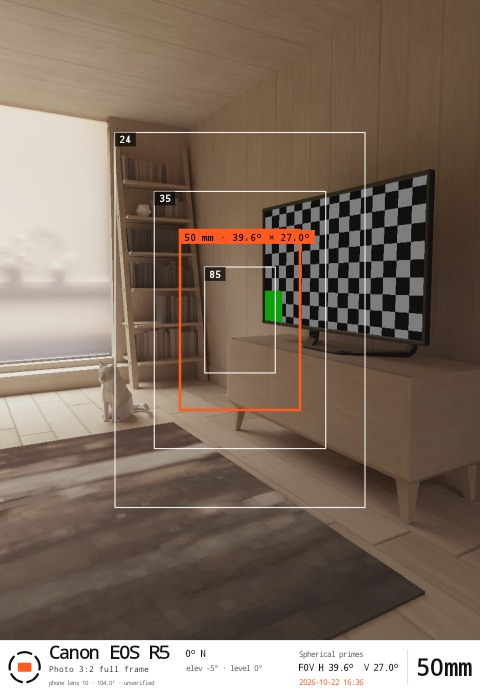
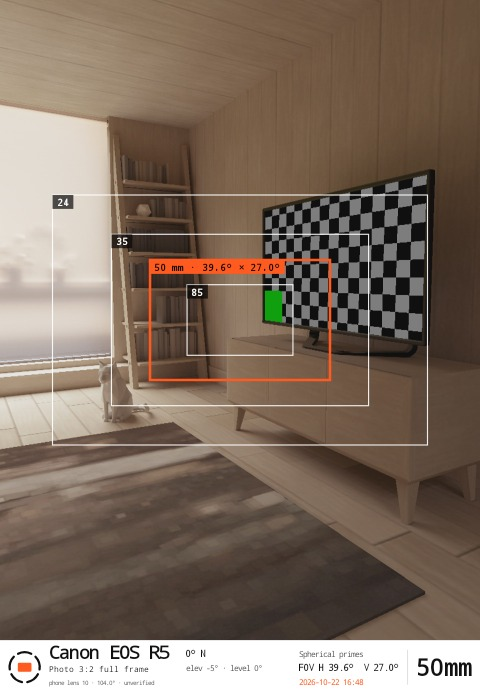
Doble toque para ver el encuadre recortado y recuadros siempre horizontales al girar el teléfono (v0.2.5-beta)

diff --git a/app/src/main/java/app/mado/ui/FovScreen.kt b/app/src/main/java/app/mado/ui/FovScreen.kt
@@ -59,6 +59,7 @@ import androidx.compose.runtime.setValue
 import androidx.compose.ui.Alignment
 import androidx.compose.ui.Modifier
 import androidx.compose.ui.draw.clip
+import androidx.compose.ui.layout.layout
 import androidx.compose.ui.geometry.CornerRadius
 import androidx.compose.ui.geometry.Offset
 import androidx.compose.ui.geometry.Size
@@ -221,28 +222,41 @@ fun FovScreen(
     }
     val phoneDeg = profileDeg ?: theory
     val target = framing?.target()
-    val frame = target?.let { Framing.frame(it, Math.toRadians(phoneDeg), size.width.toDouble() / size.height) }
+    // En fracciones del ancho y del alto de la pantalla; horizontal en el mundo también con el teléfono en vertical.
+    val frame = target?.let { Framing.toScreen(Framing.frame(it, Math.toRadians(phoneDeg), size.width.toDouble() / size.height), size.width.toDouble() / size.height, portrait = !landscape) }
     // Un recuadro por focal del kit (la actual resaltada). El preview se achica según el más ancho (padding).
     val frameDraws = framing?.options().orEmpty().map {
         val hDeg = Math.toDegrees(it.target.hFovRad)
         val vDeg = Math.toDegrees(2.0 * kotlin.math.atan(kotlin.math.tan(it.target.hFovRad / 2.0) / it.target.aspect))
         // La actual lleva su medida en la etiqueta: focal y campo horizontal × vertical.
         val detail = if (it.current) String.format(Locale.ROOT, "%s mm · %.1f° × %.1f°", it.label, hDeg, vDeg) else it.label
-        FrameDraw(it.label, Framing.frame(it.target, Math.toRadians(phoneDeg), size.width.toDouble() / size.height), it.current, detail)
+        // Siempre horizontales en el mundo: con el teléfono en vertical se reexpresan en los ejes de la pantalla.
+        val phoneAspect = size.width.toDouble() / size.height
+        FrameDraw(it.label, Framing.toScreen(Framing.frame(it.target, Math.toRadians(phoneDeg), phoneAspect), phoneAspect, portrait = !landscape), it.current, detail)
     }
     val imageScale = frameDraws.maxOfOrNull { maxOf(it.frame.widthFrac, it.frame.heightFrac) }?.let { (1.0 / maxOf(1.0, it)).toFloat() } ?: 1f
+
+    // Vista recortada (doble toque en el visor): el encuadre actual llena el visor y se ve «como saldría».
+    var cropView by rememberSaveable { mutableStateOf(false) }
+    val cropOn = framing != null && cropView && frame != null
+    val imgAspect = if (landscape) size.width.toFloat() / size.height else size.height.toFloat() / size.width
+    // Fracción del ancho y del alto de la pantalla que ocupa el encuadre actual.
+    val cropFw = frameDraws.firstOrNull { it.current }?.frame?.widthFrac?.toFloat() ?: 1f
+    val cropFh = frameDraws.firstOrNull { it.current }?.frame?.heightFrac?.toFloat() ?: 1f
+    val cropDraws = if (cropOn) frameDraws.filter { it.current }.map { it.copy(frame = Framing.Frame(1.0, 1.0)) } else frameDraws
 
     val preview: @Composable (Modifier) -> Unit = { mod ->
         Preview(
             modifier = mod,
-            aspect = if (landscape) size.width.toFloat() / size.height else size.height.toFloat() / size.width,
+            aspect = if (cropOn) imgAspect * cropFw / cropFh else imgAspect,
             running = running,
             onHolder = { holder = it; if (it != null) surfaceGen++ },
             onDestroyed = { camera.stopAndWait() },
-            imageScale = imageScale,
+            surfaceFracX = if (cropOn) 1f / cropFw else imageScale,
+            surfaceFracY = if (cropOn) 1f / cropFh else imageScale,
             corner = if (framing != null) 0.dp else 14.dp,
             overlay = {
-                if (framing != null) FrameOverlay(frameDraws, imageScale, landscape)
+                if (framing != null) FrameOverlay(cropDraws, if (cropOn) 1f else imageScale)
                 else Overlay(theory, distCm.toDoubleOrNull(), landscape)
             },
         )
@@ -379,7 +393,7 @@ fun FovScreen(
             ViewerLayout(
                 framing = framing, landscape = landscape, preview = preview, controls = controls,
                 running = running, working = shot is ShotUi.Working, hasPermission = hasPermission,
-                onToggle = onToggle, onShot = takeShot, onMenu = onMenu,
+                onToggle = onToggle, onShot = takeShot, onMenu = onMenu, onDoubleTap = { cropView = !cropView },
             )
         } else if (landscape) {
             // El preview ocupa el alto; los controles van en un panel desplazable a la derecha.
@@ -408,7 +422,7 @@ private fun ViewerLayout(
     framing: FramingState, landscape: Boolean,
     preview: @Composable (Modifier) -> Unit, controls: @Composable () -> Unit,
     running: Boolean, working: Boolean, hasPermission: Boolean,
-    onToggle: () -> Unit, onShot: () -> Unit, onMenu: () -> Unit,
+    onToggle: () -> Unit, onShot: () -> Unit, onMenu: () -> Unit, onDoubleTap: () -> Unit,
 ) {
     val p = LocalPalette.current
     var optionsOpen by rememberSaveable { mutableStateOf(false) }
@@ -418,9 +432,11 @@ private fun ViewerLayout(
         val screenW = maxWidth
         preview(Modifier.align(Alignment.Center).then(if (landscape) Modifier.fillMaxHeight() else Modifier.fillMaxWidth()))
 
-        // Tocar la imagen mientras el panel está abierto lo cierra.
-        if (optionsOpen) Box(
-            Modifier.fillMaxSize().pointerInput(Unit) { detectTapGestures { optionsOpen = false } },
+        // Un toque sobre la imagen cierra el panel; doble toque alterna la vista recortada al encuadre.
+        Box(
+            Modifier.fillMaxSize().pointerInput(Unit) {
+                detectTapGestures(onTap = { optionsOpen = false }, onDoubleTap = { onDoubleTap() })
+            },
         )
 
         // Cámara y modo (arriba a la izquierda): tocarla abre la configuración.
@@ -446,6 +462,7 @@ private fun ViewerLayout(
                         modifier = Modifier.clickable { optionsOpen = false }.padding(horizontal = 8.dp, vertical = 4.dp),
                     )
                 }
+                Text(stringResource(R.string.frm_double_tap), style = mono(10, p.text.copy(alpha = 0.6f)), modifier = Modifier.padding(bottom = 8.dp))
                 controls()
             }
         }
@@ -493,7 +510,8 @@ private fun Preview(
     running: Boolean,
     onHolder: (SurfaceHolder?) -> Unit,
     onDestroyed: () -> Unit,
-    imageScale: Float = 1f,
+    surfaceFracX: Float = 1f,
+    surfaceFracY: Float = 1f,
     corner: androidx.compose.ui.unit.Dp = 14.dp,
     overlay: @Composable () -> Unit,
 ) {
@@ -509,7 +527,13 @@ private fun Preview(
                     })
                 }
             },
-            modifier = Modifier.fillMaxSize(imageScale).align(Alignment.Center),
+            // La superficie se dimensiona como fracción del visor (puede ser mayor: el visor la recorta).
+            modifier = Modifier.align(Alignment.Center).layout { m, c ->
+                val w = (c.maxWidth * surfaceFracX).roundToInt().coerceAtLeast(1)
+                val h = (c.maxHeight * surfaceFracY).roundToInt().coerceAtLeast(1)
+                val pl = m.measure(androidx.compose.ui.unit.Constraints.fixed(w, h))
+                layout(c.maxWidth, c.maxHeight) { pl.place((c.maxWidth - w) / 2, (c.maxHeight - h) / 2) }
+            },
         )
         overlay()
         if (!running) Box(Modifier.fillMaxSize().background(p.screen.copy(alpha = 0.85f)), contentAlignment = Alignment.Center) {

diff --git a/app/src/main/java/app/mado/data/PhotoAnnotator.kt b/app/src/main/java/app/mado/data/PhotoAnnotator.kt
@@ -50,7 +50,6 @@ object PhotoAnnotator {
         val c = Canvas(out)
         c.drawColor(PAPER)
 
-        val landscape = w >= h                               // los recuadros se calculan con el lado largo en horizontal
         val widest = frames.maxOfOrNull { maxOf(it.frame.widthFrac, it.frame.heightFrac) } ?: 1.0
         val scale = (1.0 / maxOf(1.0, widest)).toFloat()
         val iw = w * scale; val ih = h * scale
@@ -62,8 +61,8 @@ object PhotoAnnotator {
         val tagText = Paint(Paint.ANTI_ALIAS_FLAG).apply { typeface = Typeface.create(Typeface.MONOSPACE, Typeface.BOLD); textSize = unit * 0.8f }
         frames.sortedBy { it.current }.forEach { af ->
             val fr = af.frame
-            val fw = (if (landscape) fr.widthFrac else fr.heightFrac).toFloat() * iw
-            val fh = (if (landscape) fr.heightFrac else fr.widthFrac).toFloat() * ih
+            val fw = fr.widthFrac.toFloat() * iw                 // fracciones en los ejes de la foto ya girada
+            val fh = fr.heightFrac.toFloat() * ih
             val l = w / 2f - fw / 2f; val t = h / 2f - fh / 2f
             val line = Paint().apply {
                 color = if (af.current) ORANGE else Color.argb(230, 255, 255, 255)
@@ -89,9 +88,8 @@ object PhotoAnnotator {
         val rotated90 = rotationDeg % 180 != 0
         val W = if (rotated90) size.outHeight else size.outWidth      // medidas de la foto ya girada
         val H = if (rotated90) size.outWidth else size.outHeight
-        val landscape = W >= H
-        val fwFrac = (if (landscape) cur.widthFrac else cur.heightFrac).toFloat()
-        val fhFrac = (if (landscape) cur.heightFrac else cur.widthFrac).toFloat()
+        val fwFrac = cur.widthFrac.toFloat()                      // fracciones en los ejes de la foto ya girada
+        val fhFrac = cur.heightFrac.toFloat()
 
         val body: Bitmap
         if (fwFrac <= 1f && fhFrac <= 1f) {

diff --git a/app/src/main/java/app/mado/ui/FramingUi.kt b/app/src/main/java/app/mado/ui/FramingUi.kt
@@ -58,7 +58,7 @@ internal data class FrameDraw(val label: String, val frame: Framing.Frame, val c
  * y las demás en blanco. Si la focal más ancha supera al teléfono (padding), el preview se achica y ese recuadro llena el visor.
  */
 @Composable
-internal fun FrameOverlay(frames: List<FrameDraw>, imageScale: Float, landscape: Boolean) {
+internal fun FrameOverlay(frames: List<FrameDraw>, imageScale: Float) {
     val p = LocalPalette.current
     val line = if (p.red) p.screenText else Color.White
     val accent = if (p.red) p.screenText else Accent
@@ -73,9 +73,9 @@ internal fun FrameOverlay(frames: List<FrameDraw>, imageScale: Float, landscape:
         }
         // Las no actuales primero, para que la actual quede encima.
         frames.sortedBy { it.current }.forEach { fd ->
-            // El recuadro se calculó con el lado largo en horizontal; en vertical se intercambian los ejes.
-            val fw = (if (landscape) fd.frame.widthFrac else fd.frame.heightFrac).toFloat() * iw
-            val fh = (if (landscape) fd.frame.heightFrac else fd.frame.widthFrac).toFloat() * ih
+            // Fracciones ya expresadas en los ejes de la pantalla (el recuadro siempre es horizontal en el mundo).
+            val fw = fd.frame.widthFrac.toFloat() * iw
+            val fh = fd.frame.heightFrac.toFloat() * ih
             val tl = Offset(c.x - fw / 2, c.y - fh / 2)
             drawRect(if (fd.current) accent else line.copy(alpha = 0.85f), tl, Size(fw, fh), style = Stroke((if (fd.current) 3f else 1.5f).dp.toPx()))
             val style = TextStyle(

diff --git a/app/src/test/java/app/mado/optics/FramingTest.kt b/app/src/test/java/app/mado/optics/FramingTest.kt
@@ -57,4 +57,20 @@ class FramingTest {
         assertEquals(71.8, Math.toDegrees(c), 0.1)
         assertEquals(phoneH, Framing.calibratedHFovRad(phoneH, 1.0), 1e-12)
     }
+
+    @Test
+    fun portraitKeepsTheFrameHorizontalInTheWorld() {
+        val t = Framing.target(36.0, 24.0, 50.0)
+        val f = Framing.frame(t, phoneH, phoneAspect)
+        val landscape = Framing.toScreen(f, phoneAspect, portrait = false)
+        assertEquals(f, landscape)
+        val portrait = Framing.toScreen(f, phoneAspect, portrait = true)
+        // Pantalla en vertical: ancho = lado corto (S), alto = lado largo (L = aspecto × S). El recuadro debe seguir siendo 3:2 apaisado.
+        val pixelAspect = (portrait.widthFrac * 1.0) / (portrait.heightFrac * phoneAspect)
+        assertEquals(t.aspect, pixelAspect, 1e-9)
+        assertTrue(portrait.widthFrac > portrait.heightFrac)
+        // Mismo ángulo horizontal contra el lado corto: tan(Ht/2) / tan(Vp/2).
+        val vPhone = 2.0 * Math.atan(tan(phoneH / 2.0) / phoneAspect)
+        assertEquals(tan(t.hFovRad / 2.0) / tan(vPhone / 2.0), portrait.widthFrac, 1e-9)
+    }
 }

diff --git a/app/src/main/java/app/mado/optics/Framing.kt b/app/src/main/java/app/mado/optics/Framing.kt
@@ -32,6 +32,14 @@ object Framing {
         return Frame(w, h)
     }
 
+    /**
+     * Pasa un recuadro (en fracciones del lado largo y del lado corto del preview) a fracciones del ancho y del alto de la pantalla.
+     * Con el teléfono en vertical el lado largo es el alto: el recuadro sigue siendo horizontal en el mundo (como una cámara
+     * en horizontal), así que su ancho se mide contra el lado corto (× aspecto) y su alto contra el largo (÷ aspecto).
+     */
+    fun toScreen(frame: Frame, phoneAspect: Double, portrait: Boolean): Frame =
+        if (portrait) Frame(frame.widthFrac * phoneAspect, frame.heightFrac / phoneAspect) else frame
+
     /** Recorte del FOV horizontal del teléfono por un perfil calibrado: factor sobre tan(FOV/2) (1.0 = sin calibrar). */
     fun calibratedHFovRad(reportedHFovRad: Double, tanHalfFactor: Double): Double =
         2.0 * atan(tan(reportedHFovRad / 2.0) * tanHalfFactor)

diff --git a/README.md b/README.md
@@ -33,7 +33,7 @@ Elige una cámara, un modo de grabación y una focal, y Mado dibuja sobre el vis
 ## Qué hace hoy
 
 - **Visor (pantalla de inicio):** dibuja sobre el visor los recuadros de **todas las focales de tu kit a la vez** (por ejemplo 24, 35, 50 y 85), con la actual en naranja y sin oscurecer lo de afuera. Sensor, modo de grabación y anamórfico (el *squeeze* suma al aspecto) salen de la cámara elegida. Si el campo de la focal más ancha supera al del teléfono, la imagen del teléfono se achica y ese recuadro llena el visor.
-- **Visor a pantalla completa:** la imagen ocupa todo el ancho (vertical) o todo el alto (horizontal). Arriba a la izquierda, la cámara y el modo elegidos: **tocarlos abre la configuración** (cámara, modo, lentes, kit, ubicación). Abajo, **◀ focal ▶** y el obturador. Un botón grande en el centro inicia la cámara; **■** la detiene y **☰** abre el menú. Pensado para pantallas chicas y de baja resolución.
+- **Visor a pantalla completa:** la imagen ocupa todo el ancho (vertical) o todo el alto (horizontal). Arriba a la izquierda, la cámara y el modo elegidos: **tocarlos abre la configuración** (cámara, modo, lentes, kit, ubicación). Abajo, **◀ focal ▶** y el obturador. **Doble toque en la imagen** alterna la vista recortada: el encuadre actual llena el visor, «como saldría». Los recuadros son siempre horizontales, también con el teléfono en vertical. Un botón grande en el centro inicia la cámara; **■** la detiene y **☰** abre el menú. Pensado para pantallas chicas y de baja resolución.
 - **Una sola lente del teléfono a la vez**, fija, para que Android no cambie de lente sola y descuadre el cálculo.
 - **Captura de foto:** cada toma guarda **dos archivos** a resolución completa, con los datos también en el EXIF: la foto **con los recuadros del kit** (la focal actual en naranja, con su medida) y el **plano recortado exactamente al encuadre**, listo para storyboard. Los dos llevan una barra blanca con el logo; a la izquierda el **nombre de la cámara en grande**, el modo de grabación y la lente del teléfono; al centro la **brújula** (rumbo, elevación y nivel) y, si lo activas, la **ubicación**; a la derecha el juego de lentes, el campo de visión **FOV H/V** (horizontal y vertical), la fecha y la **focal en grande**. La ubicación es opcional, pide permiso y se lee una sola vez al disparar.
 - **Calibrar lentes** (menú ☰): mide el campo real de cada lente contra el calculado (regla teórica en el visor) y guarda las mediciones.

diff --git a/README.en.md b/README.en.md
@@ -33,7 +33,7 @@ Pick a camera, a recording mode and a focal length, and Mado draws on the viewfi
 ## What it does today
 
 - **Viewfinder (start screen):** draws **all the focal lengths of your kit at once** over the viewfinder (for example 24, 35, 50 and 85), the current one in orange, without dimming the outside. Sensor, recording mode and anamorphic squeeze (it multiplies the aspect) come from the chosen camera. If the widest focal length's field exceeds the phone's, the phone image shrinks and that frame fills the viewfinder.
-- **Full-screen viewfinder:** the image fills the full width (portrait) or full height (landscape). Top left, the chosen camera and mode: **tapping them opens the setup** (camera, mode, lenses, kit, location). Below, **◀ focal ▶** and the shutter. A big button in the centre starts the camera; **■** stops it and **☰** opens the menu. Designed for small, low-resolution screens.
+- **Full-screen viewfinder:** the image fills the full width (portrait) or full height (landscape). Top left, the chosen camera and mode: **tapping them opens the setup** (camera, mode, lenses, kit, location). Below, **◀ focal ▶** and the shutter. **Double-tapping the image** toggles the cropped view: the current frame fills the viewfinder, "as it would turn out". Frames are always horizontal, also with the phone held upright. A big button in the centre starts the camera; **■** stops it and **☰** opens the menu. Designed for small, low-resolution screens.
 - **One fixed phone lens at a time**, so Android never switches lenses by itself and throws off the maths.
 - **Photo capture:** every shot saves **two full-resolution files**, with the data also in the EXIF: the photo **with the kit frames** (current focal length in orange, with its measure) and the **shot cropped exactly to the frame**, ready for a storyboard. Both carry a white bar with the logo; on the left the **camera name in large type**, the recording mode and the phone lens; in the centre the **compass** (heading, elevation and level) and, if you turn it on, the **location**; on the right the lens set, the **FOV H/V** field of view (horizontal and vertical), the date and the **focal length in large type**. Location is optional, asks for permission and is read once when you shoot.
 - **Calibrate lenses** (☰ menu): measures each lens's real field against the calculated one and saves the readings.
